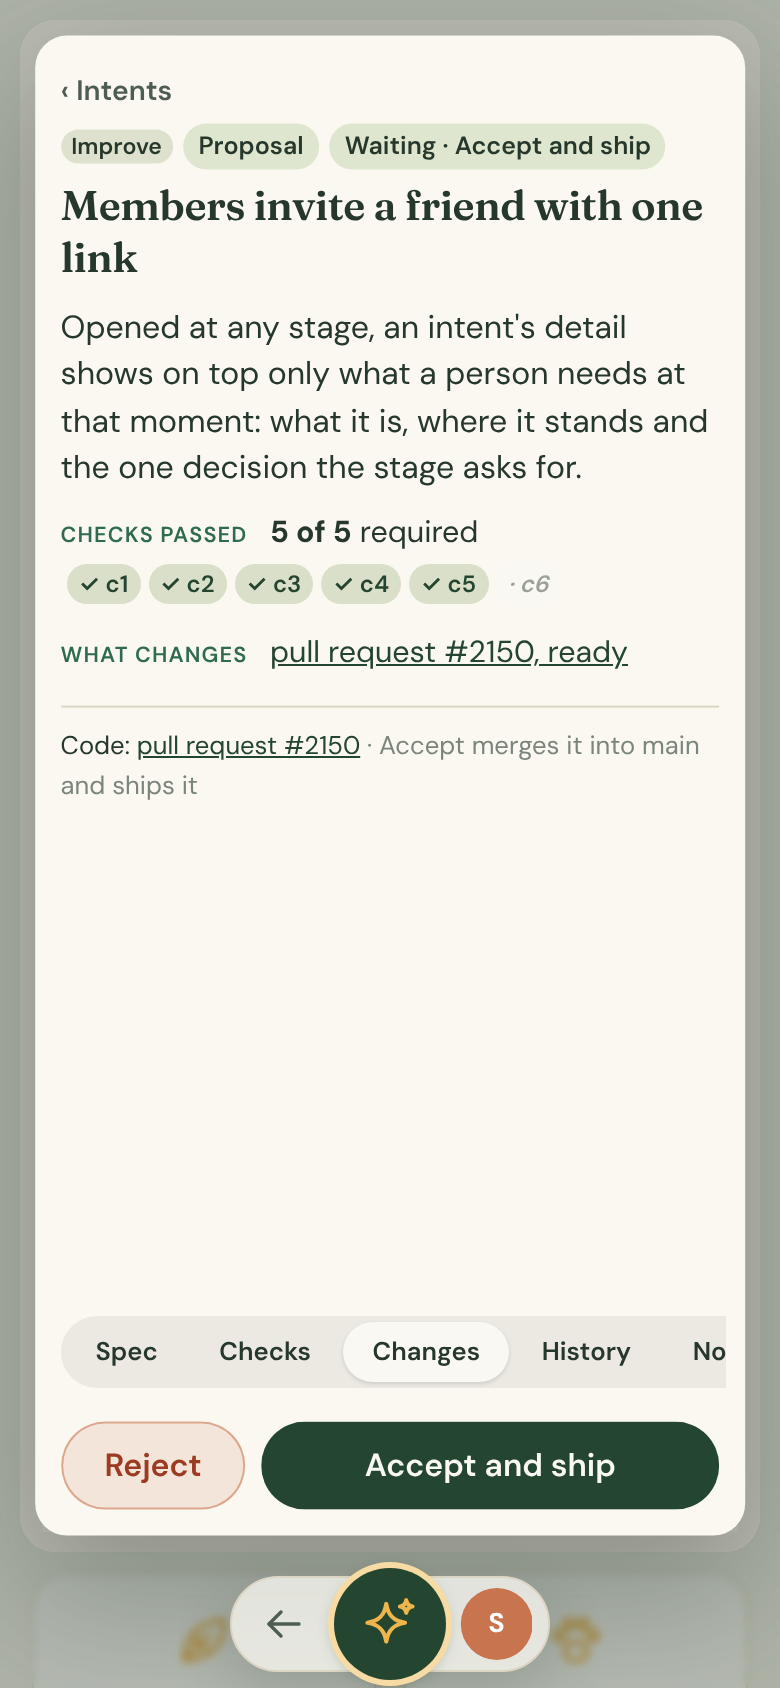
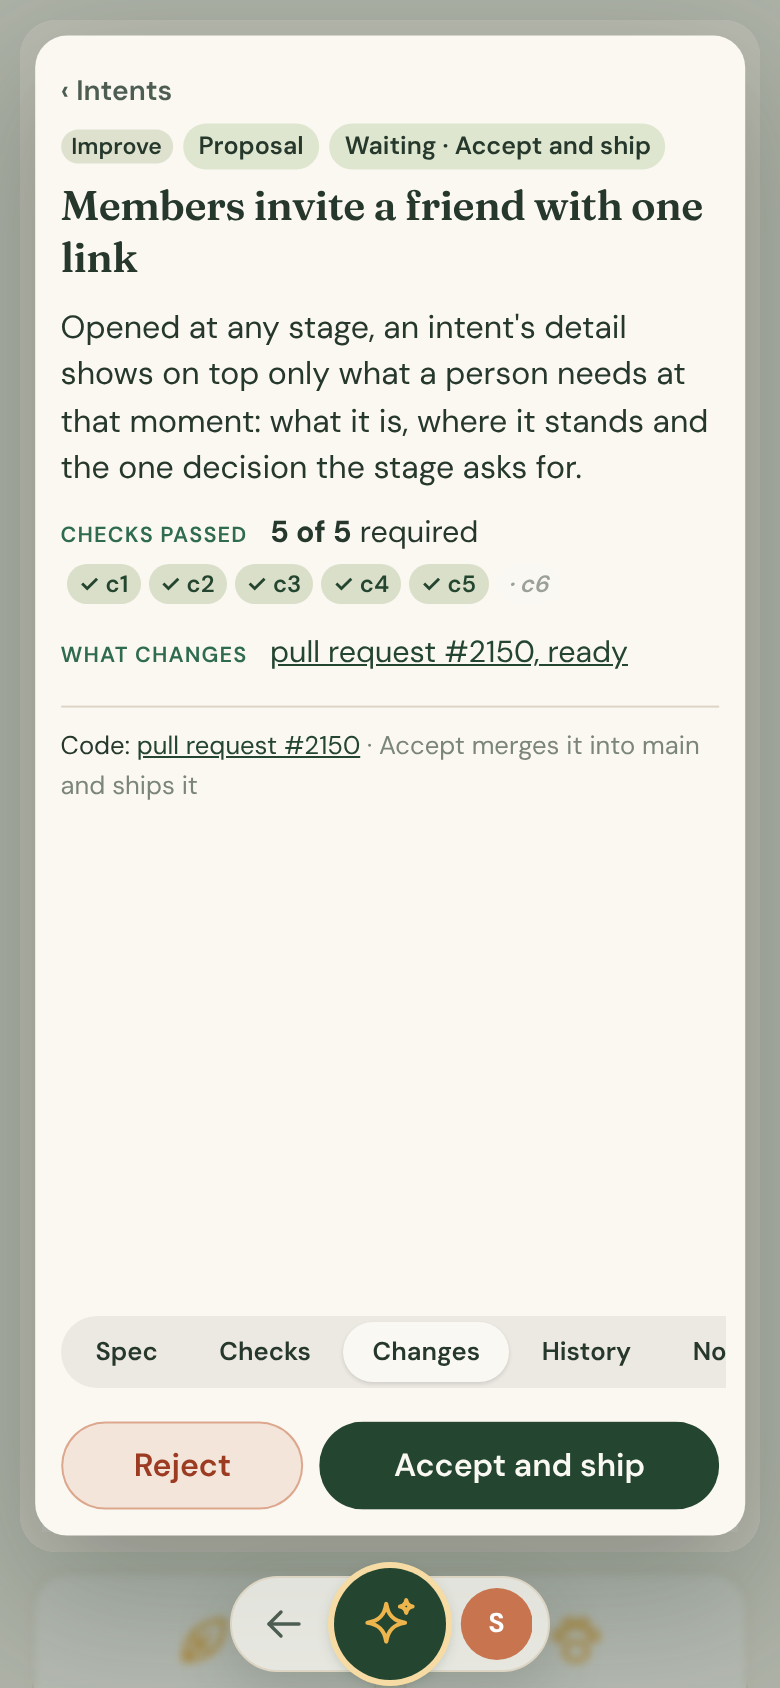
[bb3b0773] The decision travels with the work; two panes on tablets and desktops
Samuel 2026-11-07 (through the orchestrator):
- Decision.svelte is the one decision bar, by detailOf: at the foot of the detail and of
  its work's review alike, Reject and Accept (or Accept and ship) side by side, Source a
  quiet button beside them.
- 900 px and up: the detail is two panes, the open tab's content (the asset drawn …) on the
  left, the header, top, tabs and decision in an aside on the right, as tall as it holds; the
  review likewise, the work left, what it is and the decision right. Phones unchanged.
- Shots at 390×844, 820×1180 and 1440×900, every stage and the asset upgrades with their
  reviews; play/SPEC.md §4.12 says so.

Intent: bb3b0773-b4f4-4128-bcc1-b076674e3531

Claude-Session: https://claude.ai/code/session_01E9zxn5HXsSoeteAwvHhhFo

Changed region(s): [[0.1231, 0.8318, 0.4308, 0.8934], [0.4615, 0.8626, 0.8308, 0.8934]]

diff --git a/play/site/src/lib/site/intents/IntentsBoard.svelte b/play/site/src/lib/site/intents/IntentsBoard.svelte
@@ -44,7 +44,8 @@
 	import StoryChanges, { type StoryDiff } from '$lib/stories/StoryChanges.svelte';
 	import type { Story } from '$lib/stories/timeline';
 	import IntentDetail from './IntentDetail.svelte';
-	import { decidable, isCode, notLive, shipsAgain, type Intent, type Kind, type Results, type Spec, type Stage, type Work } from './detail';
+	import Decision from './Decision.svelte';
+	import { decidable, detailOf, isCode, notLive, shipsAgain, type Intent, type Kind, type Results, type Spec, type Stage, type Work } from './detail';
 
 	const viewer = import('$lib/content/assets/VaultAsset.svelte');
 	// a world is shown as the Worlds page shows it (one renderer let go of whole when it closes), not on the asset
@@ -257,6 +258,22 @@
 	};
 	/** an Accept that merges (Accept and ship): GitHub takes a few seconds */
 	let merging = $state(false);
+	/** a decision taken on the work's review: the intent's own, and the review closes once it is taken */
+	async function decideWork(id: string, verdict: 'approve' | 'accept' | 'reject' | 'reopen') {
+		const of = intents.find((x) => x.id === id);
+		merging = verdict === 'accept' && !!of && isCode(of);
+		intentError = '';
+		try {
+			const r = await api<Intent & { message?: string }>(`/intents/${id}/${verdict}`, { method: 'POST' });
+			error = r.message ?? '';
+			intents = intents.map((x) => (x.id === r.id ? r : x));
+			open = null;
+		} catch (e) {
+			intentError = (e as Error).message;
+		} finally {
+			merging = false;
+		}
+	}
 	async function decideIntent(id: string, verdict: 'approve' | 'accept' | 'reject' | 'reopen') {
 		merging = verdict === 'accept' && !!intent && isCode(intent);
 		intentError = '';
@@ -369,6 +386,7 @@
 
 	{#if open}
 		{@const p = open}
+		{@const of = intents.find((x) => x.id === p.intent_id)}
 		<div class="review" role="dialog" aria-modal="true" aria-label="{p.label} {titleOf(p)}">
 			<header class="review-head">
 				<div class="who">
@@ -389,6 +407,8 @@
 				</div>
 				<button class="more" onclick={() => (noteOpen = !noteOpen)}>{noteOpen ? 'Less' : 'More'}</button>
 			{/if}
+			<!-- the work itself, the left pane on a wide screen -->
+			<div class="work-pane">
 			{#if !review && !storyReview && !docReview}
 				<div class="sandbox-review">
 					{#if reviewError}<p class="error">{reviewError}</p>{:else}<p class="muted">Reading it…</p>{/if}
@@ -461,12 +481,15 @@
 				<p class="muted small">This intent changes {alsoDocs.length + 1} documents: accepted together, or archived together.</p>
 				{#each alsoDocs as r, i (i)}{@render docChanges(r, true, p.status === 'accepted')}{/each}
 			{/if}
-			<!-- read only: what the work changes; only its intent is decided, in the intent's dialog (Samuel 2026-11-07) -->
-			{#if review}
-			<footer class="decide">
-				<button class="btn small ghost" class:on={showSource} onclick={() => (showSource = !showSource)}>{showSource ? 'Hide source' : review.source ? 'Source' : 'Recipe file'}</button>
-			</footer>
-			{/if}
+			</div>
+			<!-- the decision travels with the work (Samuel 2026-11-07): the same bar as the intent's detail, by detailOf, its
+			     source a quiet button beside it -->
+			{#if intentError}<p class="refused" role="alert">{intentError}</p>{/if}
+			<Decision detail={of ? detailOf(of) : { decision: null, reject: false }} {merging} ondecide={(v) => decideWork(p.intent_id, v)}>
+				{#snippet extra()}
+					{#if review}<button class="btn small ghost" class:on={showSource} onclick={() => (showSource = !showSource)}>{showSource ? 'Hide source' : review.source ? 'Source' : 'Recipe file'}</button>{/if}
+				{/snippet}
+			</Decision>
 		</div>
 	{/if}
 {/if}
@@ -553,9 +576,6 @@
 	.to-board:focus-visible { outline: 2px solid var(--ink, #222); outline-offset: -2px; }
 	.review-head h2 { margin: 0; font-size: 1.3rem; display: flex; gap: 0.5rem; align-items: center; flex-wrap: wrap; }
 	.review-head .meta { margin: 0.15rem 0 0; }
-	.decide { flex: 0 0 auto; display: flex; justify-content: center; align-items: center; gap: 0.5rem; flex-wrap: wrap; padding: 0.6rem 0 0.1rem; border-top: 1px solid var(--line, #dcd5c4); }
-	.decide .btn { min-width: 6.2rem; justify-content: center; }
-	@media (max-width: 520px) { .decide { flex-wrap: nowrap; gap: 0.35rem; } .decide .btn { min-width: 0; flex: 1 1 0; padding-inline: 0.4em; } }
 	.btn.on { background: var(--ink, #222); color: var(--bg, #fff); }
 	.note { flex: 0 0 auto; }
 	.note p { margin: 0; font-size: 0.88rem; white-space: pre-line; }
@@ -586,4 +606,19 @@
 	@media (max-width: 1000px) { .story-review { grid-template-columns: minmax(0, 1fr); } }
 	/* a document's review: what it changes, field by field (./Changes.svelte) */
 	.sandbox-review { flex: 1 1 auto; min-height: 0; overflow: auto; }
+	.refused { flex: 0 0 auto; margin: 0; padding: 0.45rem 0.7rem; border-radius: 10px; font-size: 0.85rem; line-height: 1.4; max-height: 5.6em; overflow-y: auto; overflow-wrap: anywhere; color: #9c3b22; background: color-mix(in srgb, var(--terracotta, #c8744f) 12%, var(--card, #fff)); border: 1px solid color-mix(in srgb, var(--terracotta, #c8744f) 45%, transparent); }
+	.work-pane { flex: 1 1 auto; min-height: 0; display: flex; flex-direction: column; gap: 0.4rem; overflow: hidden; }
+	/* a wide screen: the work large on the left, what it is (its header, its note) and the decision in an aside on the
+	   right, as the intent's detail and every versioned thing on play (play/SPEC.md §4.15 One aside) */
+	@media (min-width: 900px) {
+		.review:not(:global(.item-review)) { display: grid; grid-template-columns: minmax(0, 1fr) minmax(18rem, 24rem); grid-template-rows: auto auto auto minmax(0, 1fr) auto auto; column-gap: 1.4rem; align-content: stretch; }
+		.work-pane { grid-column: 1; grid-row: 1 / -1; }
+		.review > .review-head, .review > .note, .review > .more, .review > .refused, .review > :global(.decide) { grid-column: 2; }
+		.review > .review-head { grid-row: 1; }
+		.review > .note { grid-row: 2; }
+		.review > .more { grid-row: 3; align-self: start; }
+		.review > .refused { grid-row: 5; }
+		.review > :global(.decide) { grid-row: 6; }
+		.review .note:not(.folded) { max-height: none; }
+	}
 </style>

diff --git a/play/site/src/lib/site/intents/IntentDetail.svelte b/play/site/src/lib/site/intents/IntentDetail.svelte
@@ -12,6 +12,7 @@
 -->
 <script lang="ts">
 	import { api } from '$lib/api';
+	import Decision from './Decision.svelte';
 	import { INDEX, admitProposed, source as catalogSource } from '$lib/content/assets/catalog.js';
 	import { markdown } from '$lib/site/markdown/index.js';
 	import { detailOf, isCode, notLive, shipsAgain, STAGE_NAME, TABS, type Check, type Intent, type Kind, type Results, type ShipStep, type Stage, type TabId, type Work } from './detail';
@@ -350,20 +351,8 @@
 
 	<!-- a refused decision's reason at the foot, right above the buttons (Samuel 2026-11-06) -->
 	{#if refused}<p class="refused" role="alert">{refused}</p>{/if}
-	<!-- the decision at its foot, always in sight: Reject (it ends archived) on the left, the stage's one decision on the
-	     right, primary, its reason under it while it may not be taken. No Close: Back, Escape or the scrim close it. -->
-	{#if d.decision || d.reject}
-		<footer class="decide">
-			<div class="buttons">
-				{#if d.reject}<button class="btn reject" onclick={() => ondecide('reject')} title="Not to be done: it ends archived">Reject</button>{/if}
-				{#if d.decision}
-					{@const dec = d.decision}
-					<button class="btn primary" class:ghost={dec.verdict === 'reopen'} onclick={() => ondecide(dec.verdict)} disabled={!dec.enabled || merging} title={dec.why}>{merging ? 'Accepting…' : dec.label}</button>
-				{/if}
-			</div>
-			{#if d.decision && !d.decision.enabled && d.decision.why}<p class="why-not">{d.decision.why}</p>{/if}
-		</footer>
-	{/if}
+	<!-- the decision at its foot, always in sight (./Decision.svelte, the same bar as on its work's review) -->
+	<Decision detail={d} {merging} {ondecide} />
 </div>
 
 <style>
@@ -521,12 +510,33 @@
 	/* the foot: a refused decision's reason, then Reject and the one decision, primary, its reason under it if it is
 	   disabled */
 	.refused { flex: 0 0 auto; margin: 0; padding: 0.45rem 0.7rem; border-radius: 10px; font-size: 0.85rem; line-height: 1.4; max-height: 5.6em; overflow-y: auto; overflow-wrap: anywhere; color: #9c3b22; background: color-mix(in srgb, var(--terracotta, #c8744f) 12%, var(--card, #fff)); border: 1px solid color-mix(in srgb, var(--terracotta, #c8744f) 45%, transparent); }
-	.decide { flex: 0 0 auto; padding: 0.5rem 0 0.1rem; }
-	.buttons { display: flex; justify-content: flex-end; align-items: center; gap: 0.5rem; }
-	.decide .btn { min-height: 44px; justify-content: center; }
-	.btn.primary { flex: 0 1 15rem; }
-	.btn.reject { margin-right: auto; background: color-mix(in srgb, var(--terracotta, #c8744f) 14%, transparent); color: #9c3b22; border-color: color-mix(in srgb, var(--terracotta, #c8744f) 55%, transparent); }
-	.btn.reject:hover { background: color-mix(in srgb, var(--terracotta, #c8744f) 26%, transparent); filter: none; }
-	.why-not { margin: 0.35rem 0 0; text-align: right; font-size: 0.78rem; color: var(--ink-soft, #4d5d51); overflow-wrap: anywhere; }
-	@media (max-width: 520px) { .btn.primary { flex: 1 1 auto; } .why-not { text-align: left; } }
+
+	/* a tablet held wide and a desktop (Samuel 2026-11-07: "on large screens … the layout is a bit weird"): two panes, as
+	   every versioned thing on play reads (play/SPEC.md §4.15 One aside): on the left and large the open tab's content
+	   (the asset drawn, the work, the spec …); on the right an aside with the header, the top, the tabs and the decision
+	   docked at its foot */
+	@media (min-width: 900px) {
+		.review {
+			width: min(76rem, calc(100% - 2rem));
+			/* as tall as what it holds, up to the screen: no empty band (a drawn asset makes it tall) */
+			height: auto;
+			max-height: min(54rem, calc(100% - 2rem));
+			min-height: min(24rem, calc(100% - 2rem));
+			display: grid;
+			grid-template-columns: minmax(0, 1fr) minmax(20rem, 25rem);
+			grid-template-rows: auto minmax(0, 1fr) auto auto auto;
+			column-gap: 1.4rem;
+			row-gap: 0.5rem;
+			padding: 1.1rem 1.2rem 0.9rem;
+		}
+		.item-body { display: contents; }
+		.panel { grid-column: 1; grid-row: 1 / -1; min-height: 0; border-top: 0; padding: 0.2rem 0.4rem 0.6rem 0; }
+		.review-head { grid-column: 2; grid-row: 1; }
+		.item-body > .top { grid-column: 2; grid-row: 2; max-height: none; padding-bottom: 0.4rem; }
+		.band { grid-column: 2; grid-row: 3; text-align: left; overflow: visible; margin: 0; padding: 0.4rem 0 0; border-top: 1px solid var(--line, #dcd5c4); }
+		.tabs { flex-wrap: wrap; white-space: normal; border-radius: 16px; }
+		.refused { grid-column: 2; grid-row: 4; }
+		.review > :global(.decide) { grid-column: 2; grid-row: 5; }
+		.inline-build .stage { height: clamp(22rem, 62vh, 40rem); }
+	}
 </style>

diff --git a/play/site/src/lib/site/intents/Decision.svelte b/play/site/src/lib/site/intents/Decision.svelte
@@ -1,0 +1,57 @@
+<!--
+	AN INTENT'S DECISION BAR (intent bb3b0773, Samuel 2026-11-07: "the changes preview … should have like accept button,
+	right?"): the one decision its stage asks for, primary, and Reject beside it where it may be rejected, its reason under
+	it while it may not be taken; what they are is ./detail.ts's detailOf's, so the bar never disagrees with itself
+	wherever it stands: at the foot of the intent's detail (./IntentDetail.svelte) and of its work's review opened from
+	it (./IntentsBoard.svelte). Secondary actions (Source …) go beside it as quiet buttons (`extra`), never in its place.
+-->
+<script lang="ts">
+	import type { Snippet } from 'svelte';
+	import type { Detail } from './detail';
+
+	let {
+		detail,
+		merging = false,
+		ondecide,
+		extra
+	}: {
+		detail: Pick<Detail, 'decision' | 'reject'>;
+		/** an Accept that merges (Accept and ship): GitHub takes a few seconds */
+		merging?: boolean;
+		ondecide: (verdict: 'approve' | 'accept' | 'reject' | 'reopen') => void;
+		/** quiet secondary actions, before the decision */
+		extra?: Snippet;
+	} = $props();
+	const dec = $derived(detail.decision);
+</script>
+
+{#if dec || detail.reject || extra}
+	<!-- No Close: Back, Escape or the scrim close what it is the foot of -->
+	<footer class="decide">
+		<div class="buttons">
+			{#if extra}<span class="extra">{@render extra()}</span>{/if}
+			{#if detail.reject}<button class="btn reject" onclick={() => ondecide('reject')} title="Not to be done: it ends archived">Reject</button>{/if}
+			{#if dec}
+				<button class="btn primary" class:ghost={dec.verdict === 'reopen'} onclick={() => ondecide(dec.verdict)} disabled={!dec.enabled || merging} title={dec.why}>{merging ? 'Accepting…' : dec.label}</button>
+			{/if}
+		</div>
+		{#if dec && !dec.enabled && dec.why}<p class="why-not">{dec.why}</p>{/if}
+	</footer>
+{/if}
+
+<style>
+	/* Reject and the one decision side by side at the right, the quiet extras at the left; on a phone both share the width */
+	.decide { flex: 0 0 auto; padding: 0.5rem 0 0.1rem; }
+	.buttons { display: flex; justify-content: flex-end; align-items: center; gap: 0.5rem; }
+	.extra { margin-right: auto; display: inline-flex; gap: 0.4rem; }
+	.decide .btn { min-height: 44px; justify-content: center; }
+	.btn.primary { flex: 0 1 15rem; }
+	.btn.reject { flex: 0 0 auto; background: color-mix(in srgb, var(--terracotta, #c8744f) 14%, transparent); color: #9c3b22; border-color: color-mix(in srgb, var(--terracotta, #c8744f) 55%, transparent); }
+	.btn.reject:hover { background: color-mix(in srgb, var(--terracotta, #c8744f) 26%, transparent); filter: none; }
+	.why-not { margin: 0.35rem 0 0; text-align: right; font-size: 0.78rem; color: var(--ink-soft, #4d5d51); overflow-wrap: anywhere; }
+	@media (max-width: 520px) {
+		.btn.reject { flex: 1 1 0; }
+		.btn.primary { flex: 2 1 0; }
+		.why-not { text-align: left; }
+	}
+</style>

diff --git a/play/site/scripts/intent-shots.ts b/play/site/scripts/intent-shots.ts
@@ -1,6 +1,6 @@
 /**
  * The intent's detail, stage by stage, as screenshots (intent bb3b0773's c4): the dev server's board opened on a fixture
- * intent at each stage (src/lib/site/intents/fixtures.ts), play's API answered by the fixtures, at 390×844 and 1440×900.
+ * intent at each stage (src/lib/site/intents/fixtures.ts), play's API answered by the fixtures, at 390×844, 820×1180 (a tablet) and 1440×900.
  *
  *   bun run dev &                                  # the dev server, http://localhost:5173
  *   bun scripts/intent-shots.ts [out dir]          # <stage>-<width>.png, and each asset upgrade's review drawn
@@ -32,6 +32,7 @@ const reviewOf = (stage: string) => {
 };
 const SIZES = [
 	{ width: 390, height: 844 },
+	{ width: 820, height: 1180 },
 	{ width: 1440, height: 900 }
 ];
 const ME = { id: '00000000-0000-4000-8000-000000000001', name: 'Samuel', level: 'admin', may: {}, founder: 1 };
@@ -50,7 +51,7 @@ async function quiet(page: import('playwright').Page, stage: string, width: numb
 }
 
 const browser = await chromium.launch();
-for (const size of SIZES) {
+for (const size of SIZES.filter((x) => !process.env.WIDTH || x.width === +process.env.WIDTH)) {
 	const page = await browser.newPage({ viewport: size, deviceScaleFactor: 2 });
 	await page.addInitScript(() => localStorage.setItem('play:intents:folded', '{}'));
 	await page.route('**/api/**', async (route) => {
